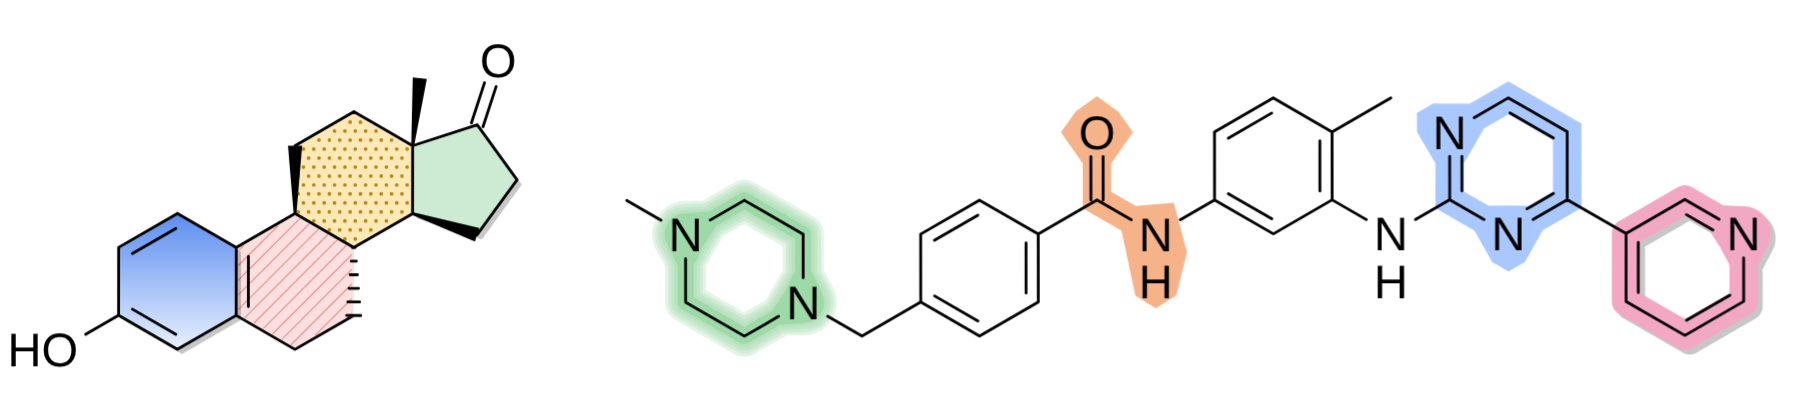
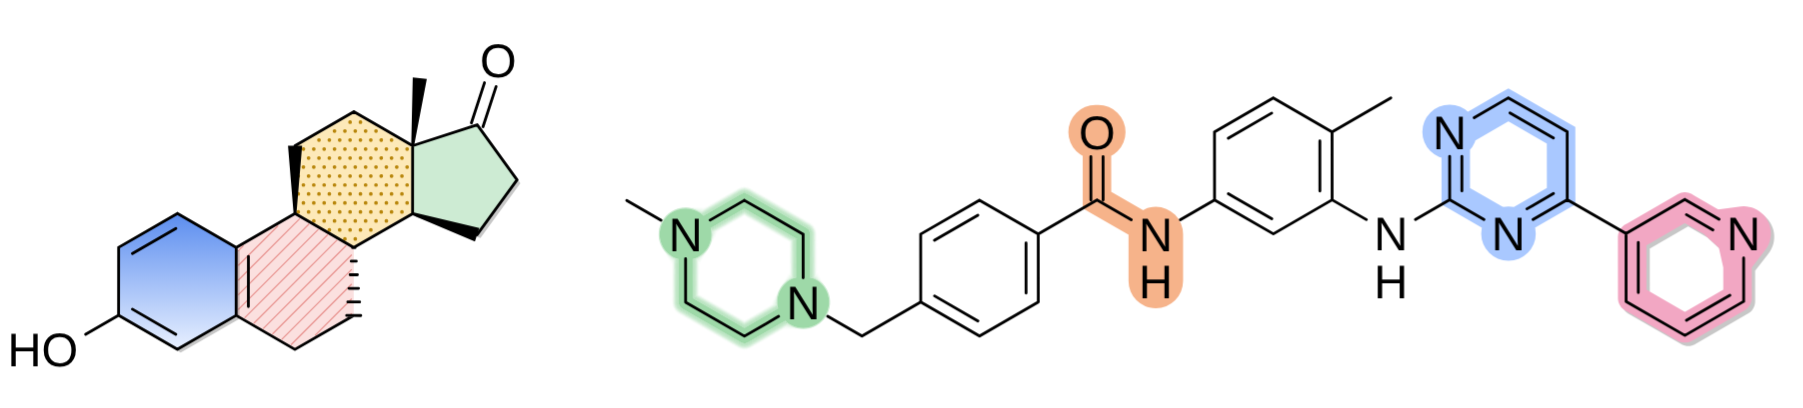
README: reaction animation GIF, straight highlights in the ring-fill picture
Adds a "Reactions that move" section with a GIF made by Scheme > Animate
Reaction's own Save GIF (cdxmorph's decalone example: a 3-D turn into the
chair, then the ketone to the amine), retakes the ring-fill picture with
straight and centred highlights, and retakes the other screenshots with
the current toolbar. scripts/animations.mjs gains a reaction-animation scene.

Claude-Session: https://claude.ai/code/session_015J12orPpFwxezS8exTcRtt

diff --git a/README.md b/README.md
@@ -22,6 +22,12 @@ Draw an arrow between two structures and a **+** box appears above and below it.
 
 ![A row of four palladium intermediates turned into a Suzuki–Miyaura catalytic cycle with Arrange Scheme](docs/images/catalytic-cycle.gif)
 
+## Reactions that move
+
+**Scheme ▸ Animate Reaction** turns a drawn scheme into an animation: the atoms of each structure move to their places in the next, bonds that break fade out and new ones fade in. An equivalency sign between two drawings of the same molecule turns it in 3-D. Save the clip as a GIF or MP4, or put it on a slide as a looping video that plays in PowerPoint too. Based on [cdxmorph](https://github.com/rshenvi/cdxmorph) by Ryan Shenvi, used with permission.
+
+![A decalone turned in 3-D into its chair conformation, then its ketone taken on to an imine and an amine, and back again; made with Save GIF](docs/images/reaction-animation.gif)
+
 ## Labels and frames that follow your structures
 
 | Compound numbers stay with their compounds | Frames fit what they surround |
@@ -31,7 +37,7 @@ Draw an arrow between two structures and a **+** box appears above and below it.
 
 ## Colour that means something
 
-Fill rings with a colour, a gradient, hatching or dots (patterns can be see-through over a colour), add a drop shadow, and pick out parts of a structure with smooth round, diamond or square highlights, soft-edged or with a shadow. Fills and highlights move with their atoms and come along when you copy a structure.
+Fill rings with a colour, a gradient, hatching or dots (patterns can be see-through over a colour), add a drop shadow, and pick out parts of a structure with round or straight highlights, soft-edged, with a shadow, or centred between a double bond's lines. Fills and highlights move with their atoms and come along when you copy a structure.
 
 ![Estrone with each ring filled differently (gradient, hatching, dots, solid), and a kinase inhibitor with its parts highlighted in round, diamond and square shapes](docs/images/ring-fills.png)
 
